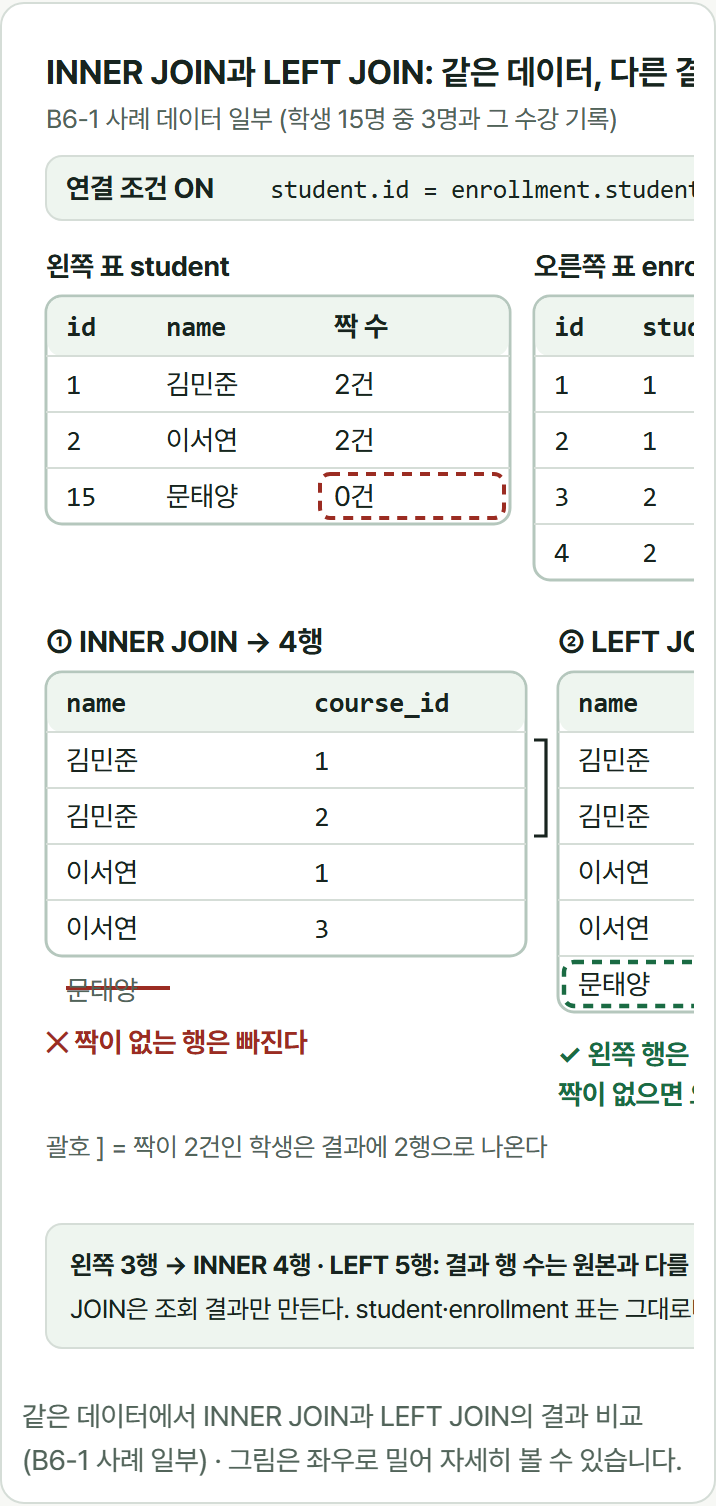
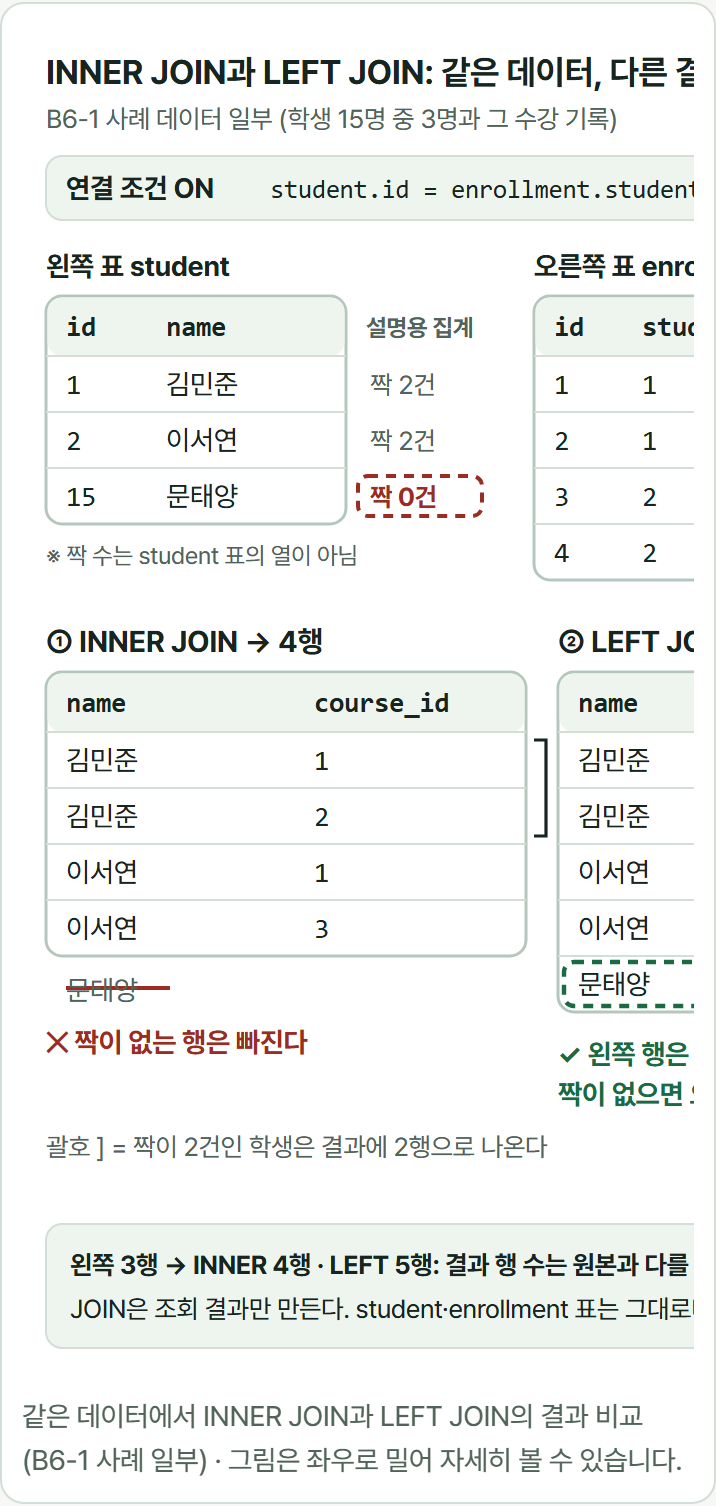
content(b6-1): apply GPT review to JOIN figure and ERD text diagram
R1: the JOIN figure showed a "짝 수" column inside the student table,
which is not in the B6-1 schema. student now shows only id and name;
the 2/2/0 match counts sit outside the table as an explanatory tally
with a note that they are not a student column. INNER 4 / LEFT 5
rows are unchanged.

R2: the ERD text-diagram proposal used member/post/comment with
cardinalities no source confirms. Replace it with the B6-1
student ||--o< enrollment >o--|| course relationship, with each end
symbol traced to erd.mmd and the NOT NULL foreign keys in
01_schema.sql, and the zero minimums confirmed in data (student 15,
course 12). Symbols and reading rule match the ERD SVG.

Re-ran the preview QA: only the two JOIN SVGs and their PNGs changed;
24 renders at 1280/390/360px, four themes and OS dark show no
clipping or overlap; minimum contrast 5.46:1. Mobile SVG selection
and the scroll-hint caption remain required Codex integration work.

Changed region(s): [[0.0615, 0.1873, 0.7374, 0.3745]]

diff --git a/drafts/glossary-visual/b6-1-p0/_tools/build.py b/drafts/glossary-visual/b6-1-p0/_tools/build.py
@@ -412,14 +412,16 @@ def pkfk_mobile():
 
 JOIN_TITLE = "INNER JOIN과 LEFT JOIN: 같은 데이터, 다른 결과"
 JOIN_DESC = ("B6-1 사례 데이터 중 학생 3명과 그 수강 기록으로 그린 그림이다. 연결 조건은 student.id = enrollment.student_id다. "
-             "왼쪽 표 student에는 1 김민준, 2 이서연, 15 문태양이 있다. 오른쪽 표 enrollment에는 id 1부터 4까지 네 행이 있고, "
+             "왼쪽 표 student에는 열 id와 name만 보였고 1 김민준, 2 이서연, 15 문태양이 있다. 오른쪽 표 enrollment에는 id 1부터 4까지 네 행이 있고, "
              "김민준(1)의 수강이 course_id 1과 2, 이서연(2)의 수강이 course_id 1과 3이다. 문태양(15)과 짝이 맞는 행은 없다. "
+             "student 표 바깥에 설명용 집계로 짝 수를 적었다. 김민준 2건, 이서연 2건, 문태양 0건이며 이 값은 student 표의 열이 아니다. "
              "INNER JOIN 결과는 4행이다. 김민준 1, 김민준 2, 이서연 1, 이서연 3. 짝이 두 개인 학생은 결과에 두 번 나온다. "
              "문태양은 짝이 없어 결과에서 빠진다. LEFT JOIN 결과는 5행이다. INNER JOIN의 4행에 더해 문태양이 남고, "
              "짝이 없는 오른쪽 열 course_id는 NULL이 된다. 왼쪽 3행이 INNER 4행, LEFT 5행이 되듯 결과 행 수는 원본 행 수와 다를 수 있다. "
              "JOIN은 조회 결과만 만들며 원래 표는 바뀌지 않는다.")
 
 J_STU = [["1", "김민준"], ["2", "이서연"], ["15", "문태양"]]
+J_MATCH = ["짝 2건", "짝 2건", "짝 0건"]  # 설명용 집계: student 표의 열이 아니므로 표 바깥에 쓴다
 J_ENR = [["1", "1", "1"], ["2", "1", "2"], ["3", "2", "1"], ["4", "2", "3"]]
 J_INNER = [["김민준", "1"], ["김민준", "2"], ["이서연", "1"], ["이서연", "3"]]
 J_LEFT = J_INNER + [["문태양", "NULL"]]
@@ -437,6 +439,23 @@ def join_on(g, x, y, w, size, two_lines=False):
     return y + h
 
 
+def join_student(g, x, y, cols, size=14):
+    """student 원본 표(id, name)와 표 바깥의 설명용 집계(짝 수). 아래쪽 y를 돌려준다."""
+    cells, (_, ty, tw, th) = table(g, x, y, cols, [("id", None), ("name", None)], J_STU, size=size)
+    ax = x + tw + 10
+    g.text(ax, y + 20, "설명용 집계", 12, "s b")
+    for r, label in enumerate(J_MATCH):
+        _, ry, _, rh = cells[(r, 0)]
+        if r == len(J_MATCH) - 1:
+            g.rect(ax - 4, ry + 4, 62, rh - 8, "gone", 5)
+            g.text(ax + 2, ry + rh - 9, label, 13, "bad b")
+        else:
+            g.text(ax + 2, ry + rh - 9, label, 13, "s")
+    note_y = ty + th + 20
+    g.text(x, note_y, "※ 짝 수는 student 표의 열이 아님", 12, "s")
+    return note_y
+
+
 def join_desktop():
     g = Svg("join-d", 520, 620, JOIN_TITLE, JOIN_DESC)
     g.text(12, 30, JOIN_TITLE, 17, "t b")
@@ -445,11 +464,9 @@ def join_desktop():
     ty = y + 28
     g.text(12, ty, "왼쪽 표 student", 14, "t b")
     g.text(256, ty, "오른쪽 표 enrollment", 14, "t b")
-    s_cells, (_, _, sw, sh) = table(g, 12, ty + 10, [50, 84, 98], [("id", None), ("name", None), ("짝 수", None)],
-                                    [r + [n] for r, n in zip(J_STU, ["2건", "2건", "0건"])],
-                                    marks={(2, 2): "gone"})
+    s_bottom = join_student(g, 12, ty + 10, [50, 100])
     e_cells, (_, _, ew, eh) = table(g, 256, ty + 10, [44, 106, 102], [("id", None), ("student_id", None), ("course_id", None)], J_ENR)
-    y = ty + 10 + max(sh, eh) + 36
+    y = max(s_bottom, ty + 10 + eh) + 36
     g.text(12, y, "① INNER JOIN → 4행", 15, "t b")
     g.text(268, y, "② LEFT JOIN → 5행", 15, "t b")
     i_cells, (_, iy, iw, ih) = table(g, 12, y + 10, [124, 116], [("name", None), ("course_id", None)], J_INNER)
@@ -484,9 +501,7 @@ def join_mobile():
     y = join_on(g, 8, y - 4, 304, 14, two_lines=True)
     y += 28
     g.text(10, y, "왼쪽 표 student", 14, "t b")
-    s_cells, (_, _, _, sh) = table(g, 8, y + 10, [52, 140, 112], [("id", None), ("name", None), ("짝 수", None)],
-                                   [r + [n] for r, n in zip(J_STU, ["2건", "2건", "0건"])], marks={(2, 2): "gone"})
-    y += 10 + sh + 32
+    y = join_student(g, 8, y + 10, [52, 140]) + 32
     g.text(10, y, "오른쪽 표 enrollment", 14, "t b")
     e_cells, (_, _, _, eh) = table(g, 8, y + 10, [52, 130, 122], [("id", None), ("student_id", None), ("course_id", None)], J_ENR)
     y += 10 + eh + 36

diff --git a/drafts/glossary-visual/b6-1-p0/review.md b/drafts/glossary-visual/b6-1-p0/review.md
@@ -17,6 +17,7 @@
 | 거부 행 | PASS | `student_id 99` 입력 → `FOREIGN KEY constraint failed` (스키마의 `PRAGMA foreign_keys = ON` 적용 상태). 원본에 없는 값이므로 그림에 "교육용 예시" 표시 |
 | JOIN INNER 4행 | PASS | 학생 1·2·15 대상 `INNER JOIN`: 김민준 1, 김민준 2, 이서연 1, 이서연 3 (`course_id`) |
 | JOIN LEFT 5행 | PASS | 위 4행 + 문태양 NULL |
+| JOIN 원본 표의 열 | PASS (R1 반영) | `student` 표에는 `01_schema.sql`에 있는 `id`·`name`만 그린다. 짝 수 2·2·0은 표 바깥 "설명용 집계" |
 | 전체 26/27행 (본문 제안 문장) | PASS | 15명 전체 INNER 26 · LEFT 27. 스토리 `join-compare` 각주와 같다 |
 | FK 참조 대상 일반화 | PASS | 그림: "보통 PK, 경우에 따라 UNIQUE 키". PK만 참조한다고 쓰지 않았다 |
 | FK ≠ 복사 | PASS | 그림 안 문장 |
@@ -43,7 +44,7 @@
 | 글자가 칸·상자 밖으로 넘침 | 24회 렌더링 | PASS — 0건 |
 | 페이지 가로 넘침 | 24회 렌더링 | PASS — 0건 (그림 영역 안의 가로 스크롤은 현재 렌더러의 설계 동작) |
 | 글자 대비 (본문 면·보조 면 모두에 대해) | 4개 테마 + OS 다크 | PASS — 최소 5.46:1 (Indigo 보조 글자). 의미색: PK·FK 이름표 흰 글자, 빠짐 `#9b2c22`, 남음 `#1a6b43` 포함 |
-| 최소 글자 크기 (실제 표시 px) | desktop 1280 · mobile 390 · mobile 360 | desktop 12px(PK·FK 이름표) / 본문 13~15px · mobile 390 12.6px · mobile 360 11.5px(이름표), 본문 12.4px 이상 |
+| 최소 글자 크기 (실제 표시 px) | desktop 1280 · mobile 390 · mobile 360 | desktop 12px(PK·FK 이름표, JOIN "설명용 집계" 이름표·각주) / 본문 13~15px · mobile 390 12.6px · mobile 360 11.5px(같은 보조 이름표), 본문 12.4px 이상 |
 
 24회 렌더링 = 그림 3종 × {desktop 1280 Forest, mobile 390, mobile 360, 현재 렌더러 390, Indigo, Paper, Signal, OS 다크}.
 
@@ -95,7 +96,7 @@ Owner가 그림과 본문 제안을 승인한 뒤에 진행한다. 이번 조사
 1. 세 그림의 기술적 사실과 데이터 값(§1 표를 원본 SQL과 대조).
 2. ERD 기호 설명 "안쪽 = 최대, 바깥쪽 = 최소"와 "반대쪽 끝을 읽는다"가 입문자에게 정확하고 충분한가.
 3. ERD 그림에 `1`·`N` 숫자를 까마귀 발과 함께 둔 것이 혼동을 만들지 않는가(`N` 옆의 동그라미 = 최소 0).
-4. `erd` 텍스트 도식 수정안에서 `member` 쪽을 `||`(반드시 하나)로 둘지 `o|`(0 또는 1)로 둘지 — `inner-join` 본문의 "작성자가 지워진 글" 문장과의 정합성.
+4. ~~`erd` 텍스트 도식 수정안에서 `member` 쪽을 `||`로 둘지 `o|`로 둘지~~ — R2로 해소. 도식 예시를 B6-1 `student`·`enrollment`·`course`로 바꾸고 기호를 원본 스키마·`erd.mmd`로 확정했다(§9).
 5. `foreign-key` 신설 `주의할 점` 3항목(NULL, SQLite PRAGMA, 제약 없는 JOIN)의 정확성과 입문자 수준 적합성.
 6. PK의 "비워 둘 수 없다"에 SQLite 예외를 언급할지 여부.
 7. JOIN 그림의 결과 열로 수업 이름 대신 `course_id`를 보인 선택(2표 JOIN을 유지하기 위함)이 적절한가.
@@ -116,3 +117,28 @@ Owner가 그림과 본문 제안을 승인한 뒤에 진행한다. 이번 조사
 - B6-1 학습가이드 V02는 화살표를 "부모 → 자식"으로, V03은 점선 화살표를 "FK → PK"로 쓴다. 같은 가이드 안에서 화살표 방향의 뜻이 다르다.
 - 스토리와 가이드의 PK·FK 색 계열이 서로 반대다.
 - 미리보기에 쓴 `npx vite preview` 서버는 작업 후 종료했다.
+
+## 9. GPT 독립 검토 반영 (검토 커밋 `1216ccf`)
+
+GPT 독립 검토: 그림 구성·기술 내용 양호, 아래 두 항목 수정 요청.
+
+| # | 지적 | 수정 | 상태 |
+| --- | --- | --- | --- |
+| R1 | JOIN 그림의 `student` 표 안에 원본 스키마에 없는 `짝 수` 열이 있어 실제 저장된 열처럼 보인다 | `student` 표는 원본 열 `id`·`name`만 그린다. 김민준 2건·이서연 2건·문태양 0건은 표 오른쪽 바깥에 "설명용 집계" 제목으로 적고, 문태양 0건만 기존처럼 점선 빨강 테두리로 강조한다. 표 아래에 "※ 짝 수는 student 표의 열이 아님". SVG `desc`에도 같은 설명을 넣었다. INNER 4행·LEFT 5행 데이터와 학습 흐름은 그대로다 | 반영 |
+| R2 | ERD 문자 도식 개정안의 `member`·`post`·`comment` 필수 관계 기호는 원본 제약이 확인되지 않았다 | [제안 문서 §2](term-revision-proposal.md#2-erd--erd)의 도식을 B6-1 `student ||────o< enrollment >o────|| course`로 교체했다. 네 끝 기호를 `erd.mmd`(`STUDENT \|\|--o{ ENROLLMENT`, `COURSE \|\|--o{ ENROLLMENT`)와 `01_schema.sql`(`student_id`·`course_id` `NOT NULL` + FK)로 확인하고 근거 표를 붙였다. 최소 0은 데이터로도 확인했다(문태양 수강 0건, 수업 12번 수강 0건). 새 ERD SVG와 기호·읽는 방향·최소/최대 설명을 맞췄다 | 반영 |
+
+**재검증 (수정 후)**
+
+| 검사 | 결과 |
+| --- | --- |
+| 생성기 `_tools/build.py` 재실행 | 바뀐 파일은 `join-inner-left-desktop.svg`·`-mobile.svg` 두 개뿐. ERD·PK/FK SVG는 바이트 단위로 같다 |
+| JOIN 1280px | 글자 viewBox 밖 0 · 겹침 0 · 칸 넘침 0 · 페이지 가로 넘침 없음 (viewBox 520×676) |
+| JOIN 390px (모바일판) | 같은 항목 모두 0 · 그림 영역 가로 스크롤 없음 (viewBox 320×1204) |
+| JOIN 360px (모바일판) | 같은 항목 모두 0 · 그림 영역 가로 스크롤 없음 · 보조 이름표 최소 11.5px |
+| 전체 24회 렌더링 | 레이아웃 문제 0건 · SVG 문법·viewBox·id 중복 PASS · 최소 대비 5.46:1 (변화 없음) |
+| 시각 확인 | `preview/join-desktop.png`, `preview/qa/join-mobile-360.png`를 Claude가 열어 확인 |
+| `git diff --check` | PASS |
+
+**유지되는 통합 필수 작업:** 모바일 전용 SVG 선택(700px 이하에서 `-mobile.svg`를 폭 100%로)과 `figcaption::after` 가로 스크롤 안내 문구 조정은 Codex 통합 단계의 **필수** 작업으로 남는다(§5-4). 현재 렌더러로는 390px에서 LEFT JOIN 결과가 첫 화면 밖에 있다(`preview/qa/join-current-renderer-390.png`).
+
+수정 범위: `drafts/glossary-visual/b6-1-p0/` 안의 생성기·JOIN SVG 2개·미리보기 PNG·`qa-results.json`·문서 3개. 기존 승인 자료, 용어 본문, `src/`, canonical 데이터는 바꾸지 않았다.

diff --git a/drafts/glossary-visual/b6-1-p0/term-revision-proposal.md b/drafts/glossary-visual/b6-1-p0/term-revision-proposal.md
@@ -7,7 +7,7 @@
 
 | 용어 | 그림 | 바꿀 내용 | 바꾸지 않을 내용 |
 | --- | --- | --- | --- |
-| `erd` | A `erd-basics` | 그림 삽입, 텍스트 도식의 기호를 그림과 같은 표기로 수정, B6-1 사례 한 문장 | 한 줄 설명, 정확한 설명, 주의할 점, 흔한 오해, 동료평가 질문 |
+| `erd` | A `erd-basics` | 그림 삽입, 텍스트 도식을 B6-1 `student`·`enrollment`·`course` 예시와 그림과 같은 기호(`\|\|`·`o<`·`>o`)로 교체, B6-1 사례 한 문장 | 한 줄 설명, 정확한 설명, 주의할 점, 흔한 오해, 동료평가 질문 |
 | `foreign-key` | B `pk-fk-relationship` | 그림 삽입, 한 줄 설명의 "기본 키"를 "기본 키(또는 UNIQUE 키)"로, `주의할 점` 절 신설, "본과정 M11" 표기 | 쉽게 설명하면, 정확한 설명, 흔한 오해, 동료평가 질문 |
 | `join` | C `join-inner-left` | 그림 삽입, 1:N 확장 문장 추가, "본과정 M11" 표기 | 한 줄 설명, 코드 예, 흔한 오해, 동료평가 질문 |
 | `primary-key` | B 공유 (후속) | 그림 공유 위치만 설계, "본과정 M11" 표기 | 나머지 전부 |
@@ -53,7 +53,9 @@
 
 > 선 끝 기호는 안쪽이 최대, 바깥쪽이 최소 개수입니다. 한쪽 표에서 출발해 반대쪽 끝의 기호를 읽습니다. 그림에서 학생 1명은 수강 기록을 0건 이상 가지고, 수강 기록 1건은 학생 정확히 1명에 속합니다.
 
-**기존 텍스트 도식과의 충돌:** 있음. 문자 도식의 `1`·`<`·`○`가 그림의 `‖`·`○<`와 다르다. 도식을 지우지 않고 같은 표기로 고치는 것을 제안한다(그림이 보이지 않는 환경 — Chrome 오픈북 등 — 에서도 같은 표기를 유지).
+**기존 텍스트 도식과의 충돌:** 있음. 문자 도식의 `1`·`<`·`○`가 그림의 `‖`·`○<`와 다르다. 도식을 지우지 않고 같은 표기로 고치는 것을 제안한다. Chrome 오픈북은 `코드 예` 절을 글자로 보여 주므로(`extension/sidepanel.js`의 `codeExample`), 그림이 보이지 않는 곳에서도 같은 표기를 유지한다.
+
+예시는 그림과 같은 **B6-1 `student`·`enrollment`·`course`** 로 바꾼다. 기존 `member`·`post`·`comment`는 최소·최대 개수를 확인할 원본 스키마가 없어 정확한 기호를 정할 수 없다(독립 검토 R2).
 
 현재:
 
@@ -72,22 +74,40 @@ member ──1────< post ──1────< comment
 post.author_id,  comment.post_id,  comment.author_id
 ```
 
-제안:
+제안 (B6-1 사례):
 
 ```text
-member ||────o< post        (작성)
-post   ||────o< comment     (댓글)
-member ||────o< comment     (작성자)
+student ||────o< enrollment >o────|| course
 
-선 끝 기호 (안쪽 = 최대, 바깥쪽 = 최소)
-  ||    반드시 하나   (최소 1 · 최대 1)
-  o<    0개 이상 여럿 (최소 0 · 최대 여럿)
+선 끝 기호 (상자 쪽 = 최대, 바깥쪽 = 최소)
+  ||          반드시 하나   (최소 1 · 최대 1)
+  o<  >o      0개 이상 여럿 (최소 0 · 최대 여럿)
+              세 갈래(< >)가 상자 쪽, 동그라미(o)가 바깥쪽
 
-여럿(<) 쪽 표에 외래 키를 둔다.
-post.author_id,  comment.post_id,  comment.author_id
+읽기: 한쪽 표에서 출발해 반대쪽 끝의 기호를 읽는다
+  학생 1명 → 수강 기록 0건 이상     (enrollment 쪽 o<)
+  수강 1건 → 학생 정확히 1명         (student 쪽 ||)
+  수업 1개 → 수강 기록 0건 이상     (enrollment 쪽 >o)
+  수강 1건 → 수업 정확히 1개         (course 쪽 ||)
+
+여럿 쪽 표(enrollment)에 외래 키를 둔다.
+enrollment.student_id,  enrollment.course_id
 ```
 
-관계를 한 줄에 하나씩 적어 "작성자" 관계의 양쪽 끝도 보이게 했다. `member` 쪽을 `||`(반드시 하나)로 둔 것은 현재 도식의 `1`을 옮긴 것이다. 단, `inner-join` 본문은 "작성자가 지워진 글"을 언급하므로 작성자가 없을 수 있는 설계라면 `member` 쪽이 `o|`(0 또는 1)가 된다. 어느 쪽인지 GPT 검토에서 확인이 필요하다([review.md §6](review.md#6-gpt-독립-검토-요청-항목)).
+**기호 근거 (B6-1 `8b99440`):**
+
+| 관계 끝 | 기호 | 원본 근거 | 데이터 확인 |
+| --- | --- | --- | --- |
+| `student` 쪽 (수강 1건 → 학생) | `\|\|` 최소 1 · 최대 1 | `erd.mmd` `STUDENT \|\|--o{ ENROLLMENT` · `enrollment.student_id INTEGER NOT NULL` + `FOREIGN KEY (student_id) REFERENCES student(id)` | — |
+| `enrollment` 쪽 (학생 1명 → 수강) | `o<` 최소 0 · 최대 여럿 | 같은 줄의 `o{` · 학생에게 수강을 강제하는 제약 없음 | 문태양(15) 수강 0건, 다른 학생 1~2건 |
+| `course` 쪽 (수강 1건 → 수업) | `\|\|` 최소 1 · 최대 1 | `erd.mmd` `COURSE \|\|--o{ ENROLLMENT` · `enrollment.course_id INTEGER NOT NULL` + `FOREIGN KEY (course_id) REFERENCES course(id)` | — |
+| `enrollment` 쪽 (수업 1개 → 수강) | `>o` 최소 0 · 최대 여럿 | 같은 줄의 `o{` · 수업에 수강을 강제하는 제약 없음 | 수업 12번 수강 0건 |
+
+`UNIQUE (student_id, course_id)`는 같은 학생·수업 쌍의 중복을 막을 뿐 위 개수를 바꾸지 않는다.
+
+**새 ERD SVG와의 일치:** SVG(`erd-basics-*`)는 같은 세 표와 같은 네 끝 기호를 쓴다. 왼쪽 선은 `student ‖ … ○< enrollment`, 오른쪽 선은 `enrollment >○ … ‖ course`이며, 문자 도식의 `||`·`o<`·`>o`가 SVG의 막대 두 개·동그라미 + 세 갈래에 대응한다. 읽는 방향("반대쪽 끝을 읽는다")과 최소·최대 설명 문구도 SVG 범례와 같다. 문자 도식은 고정폭 글자로 그리므로, 그림의 "안쪽"을 "상자 쪽"이라고 풀어 썼다.
+
+**바꾸면서 함께 정리되는 것:** 기존 도식의 `member`–`comment` "작성자" 관계에서 빠져 있던 양쪽 끝 기호 문제, 그리고 이전 초안에서 확인이 필요했던 `member` 쪽 `||`/`o|` 선택 문제는 예시를 B6-1로 바꾸면서 함께 사라진다. 본문의 다른 절(`이 미션에서는 왜 필요한가`의 "표를 네 개 이상")은 미션 요구 사항이라 그대로 둔다.
 
 **이 미션에서는 왜 필요한가 — 한 문장 추가 제안:**
 

diff --git a/drafts/glossary-visual/b6-1-p0/visual-design.md b/drafts/glossary-visual/b6-1-p0/visual-design.md
@@ -57,11 +57,12 @@
 
 - **핵심 질문:** INNER JOIN과 LEFT JOIN은 같은 데이터에서도 왜 다른 결과를 만들까?
 - **핵심 메시지 한 줄:** 짝이 없는 왼쪽 행은 INNER에서 빠지고 LEFT에서는 NULL과 함께 남는다.
-- **구성:** 연결 조건 `student.id = enrollment.student_id` · 왼쪽 표 `student` 3행(짝 수 2·2·0) · 오른쪽 표 `enrollment` 4행 · INNER 결과 4행 · LEFT 결과 5행 · 결과 행 수 메모.
+- **구성:** 연결 조건 `student.id = enrollment.student_id` · 왼쪽 표 `student` 3행(원본 열 `id`·`name`만) + 표 바깥 "설명용 집계" 짝 수 2·2·0 · 오른쪽 표 `enrollment` 4행 · INNER 결과 4행 · LEFT 결과 5행 · 결과 행 수 메모.
 
 | 표현 규칙 | 내용 |
 | --- | --- |
-| 짝 없는 행 | 문태양(15). 왼쪽 표에서 "0건" 칸 강조 → INNER 아래 취소선 + `✕ 짝이 없는 행은 빠진다` → LEFT 마지막 행 점선 초록 테두리 + `✓` |
+| 원본 표와 집계 | `student`에는 원본 스키마의 열만 그린다. 짝 수는 `student`의 열이 아니므로 표 오른쪽 바깥에 "설명용 집계"로 적고 "※ 짝 수는 student 표의 열이 아님"을 덧붙인다(독립 검토 R1) |
+| 짝 없는 행 | 문태양(15). 표 바깥 집계 "짝 0건" 강조 → INNER 아래 취소선 + `✕ 짝이 없는 행은 빠진다` → LEFT 마지막 행 점선 초록 테두리 + `✓` |
 | 1:N 확장 | 김민준·이서연은 짝이 2건이라 결과에 2행씩 나온다. 결과 표 옆 괄호 `]`와 설명. 기존 V06·`join-compare`에는 없던 요소다 |
 | 행 수 | "왼쪽 3행 → INNER 4행 · LEFT 5행: 결과 행 수는 원본과 다를 수 있다" |
 | NULL | 빨강을 쓰지 않고 굵은 글자로만 표시한다. NULL은 오류가 아니라 "값 없음"이다 |
